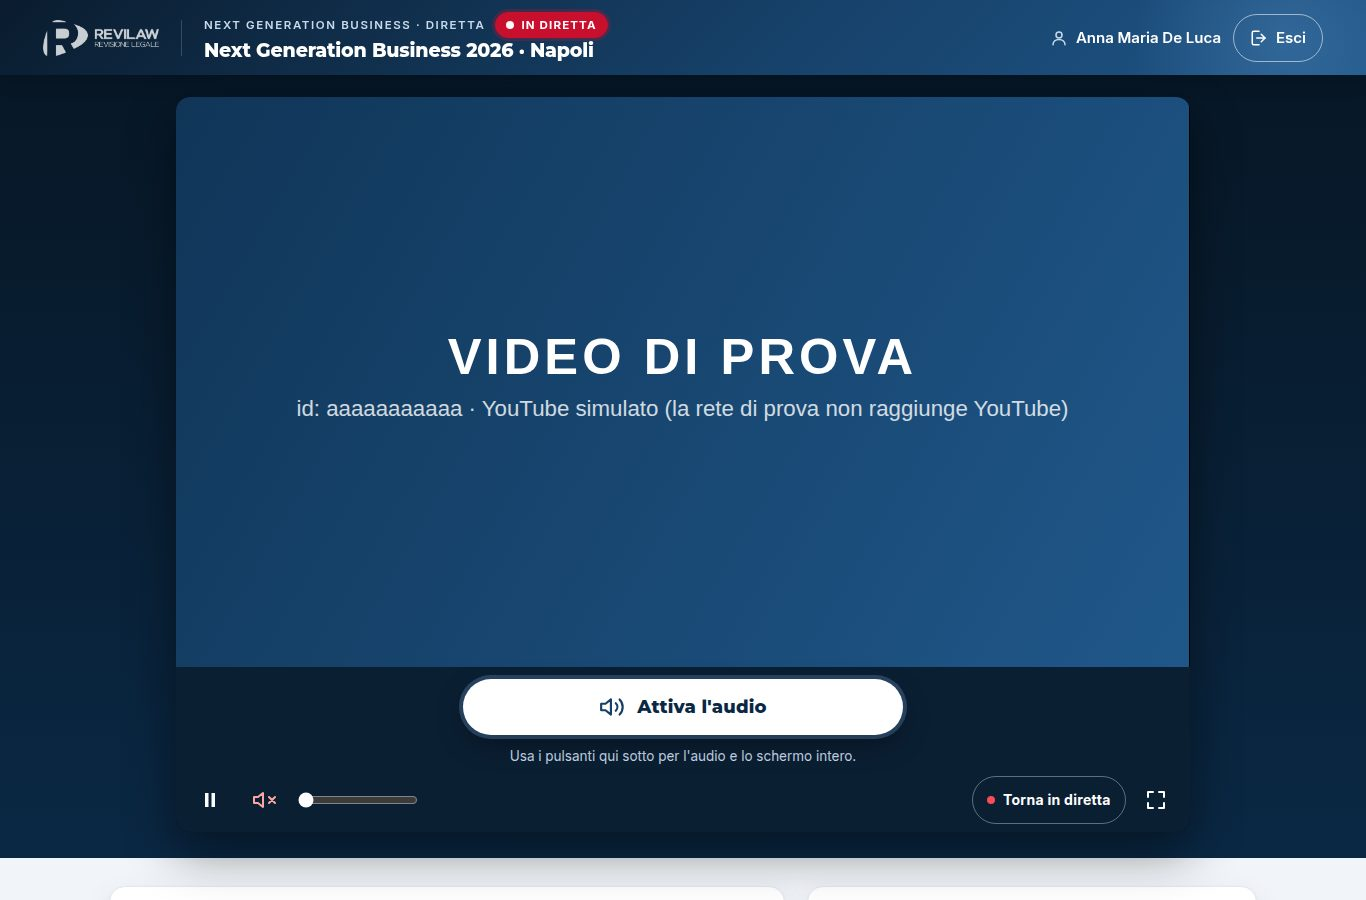
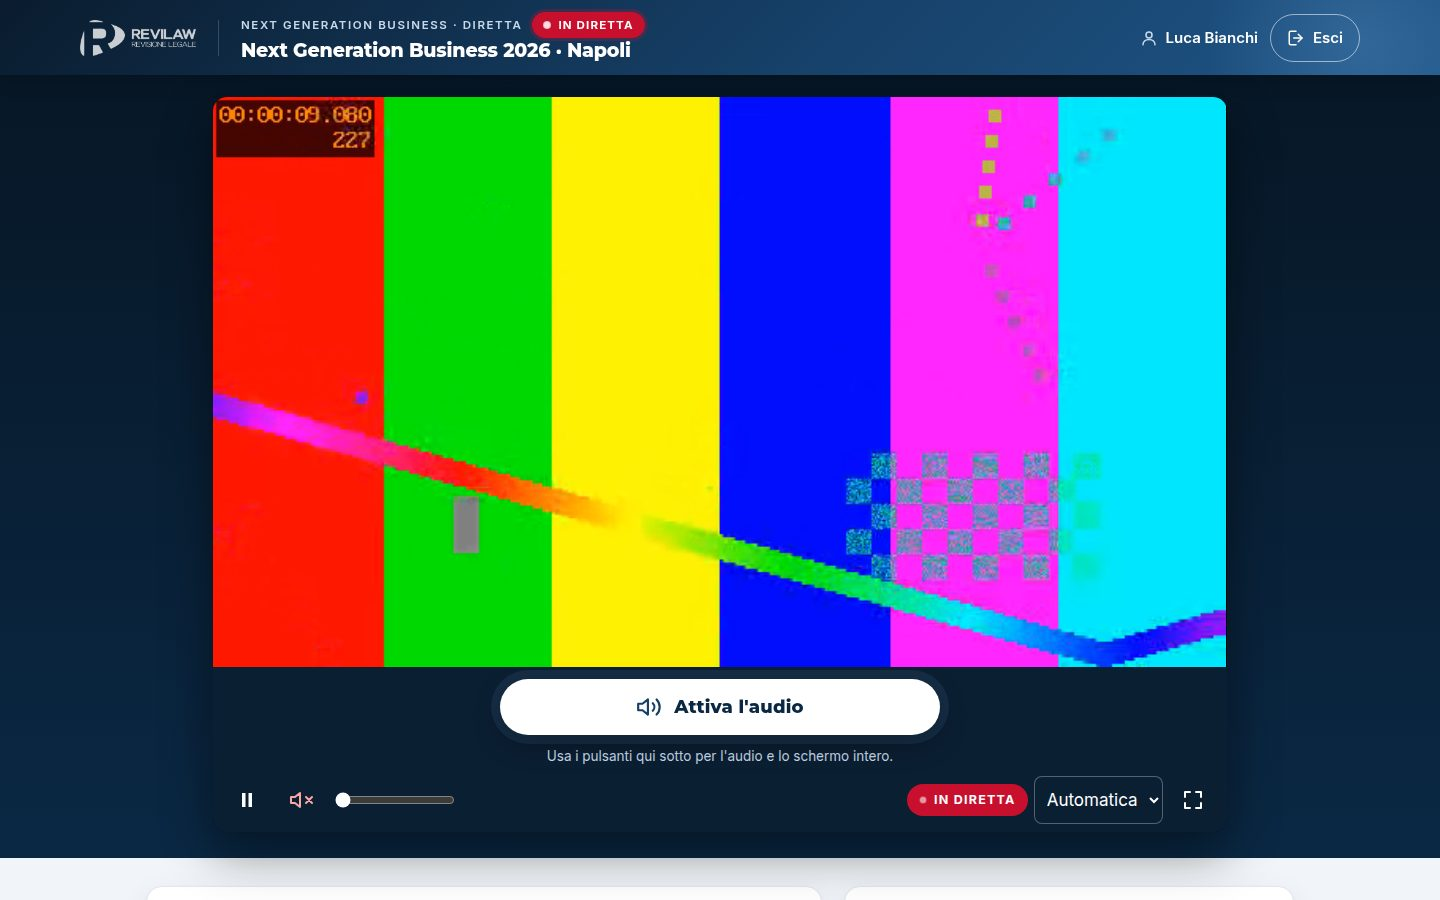
Diretta: prove della pagina e della web TV senza YouTube, screenshot nuovi
Pagina, e2e e web TV con la diretta di prova (ffmpeg) e il flusso
pubblico di Shaka: avvio muto e audio, qualita', schermo intero,
«Torna in diretta» e DVR, scorciatoie, cambio del link senza
ricaricare, caduta con passaggio alla riserva, diretta che non
risponde, ripiego incorporato, link non valido, link firmati.
Screenshot di diretta, ricollegamento, DVR e avviso del ripiego.

Claude-Session: https://claude.ai/code/session_01Vh8hVaybXHL1X15eBRcjKg

diff --git a/diretta/prove/pagina.prova.js b/diretta/prove/pagina.prova.js
@@ -40,8 +40,8 @@
    (Automatica, 360p, 180p: cambia davvero le righe del video); il
    grande «Attiva l'audio»; play/pausa (in pausa il video e' nascosto e
    al suo posto c'e' la nostra schermata, con «Torna in diretta»);
-   tasti spazio, F, M e frecce; schermo intero (anche finto, su
-   iPhone); «Torna in diretta» dopo la pausa riporta al punto live;
+   tasti spazio, F, M e frecce con il fuoco sul lettore (dopo un clic
+   sul video); schermo intero (anche finto, su iPhone); «Torna in diretta» dopo la pausa riporta al punto live;
    cambio del link durante la diretta senza ricaricare (stesso <video>,
    nessun ascolto Firestore in piu'); un link non valido («Video non
    disponibile», chiaro, e la pagina non si rompe); connessione persa e
@@ -794,8 +794,10 @@ function eventoIniziale(T) {
             await videoVa(p, 10000, 'il video dopo «Riprendi»');
         });
 
-        await prova('tastiera: spazio pausa/play, M muto, frecce volume', async () => {
-            await p.evaluate(() => { if (document.activeElement) document.activeElement.blur(); });
+        await prova('tastiera, con il fuoco sul lettore (dopo un clic sul video): spazio pausa/play, M muto, frecce volume', async () => {
+            // un clic sul video porta il fuoco sul riquadro del lettore: da li' valgono le scorciatoie
+            await p.click('#area-video');
+            vero(await p.evaluate(() => document.activeElement === document.getElementById('riquadro-video')), 'dopo il clic sul video il fuoco non e\' sul lettore');
             await p.keyboard.press('Space');
             await p.waitForSelector('#schermo-pausa', { state: 'visible' });
             vero((await statoVideo(p)).fermo, 'spazio: il video non si ferma');
@@ -816,6 +818,7 @@ function eventoIniziale(T) {
         });
 
         await prova('schermo intero sul nostro riquadro (tasto F e pulsante)', async () => {
+            await p.focus('#riquadro-video');
             await p.keyboard.press('f');
             await p.waitForSelector('#riquadro-video[data-intero="1"]');
             const dim = await p.locator('#riquadro-video').boundingBox();
@@ -835,7 +838,7 @@ function eventoIniziale(T) {
             await p.waitForSelector('#avviso-evento', { state: 'visible', timeout: 10000 });
             await p.waitForFunction(() => /Avviso: Problema tecnico/.test(document.getElementById('annuncio').textContent), null, { timeout: 5000 });
             vero(!(await visibile(p, '#avviso-intero')), 'la copia nel riquadro si vede anche fuori dallo schermo intero');
-            await p.evaluate(() => { if (document.activeElement) document.activeElement.blur(); });
+            await p.focus('#riquadro-video');
             await p.keyboard.press('f');
             await p.waitForSelector('#riquadro-video[data-intero="1"]');
             await p.waitForSelector('#avviso-intero', { state: 'visible', timeout: 5000 });
@@ -907,6 +910,8 @@ function eventoIniziale(T) {
             vero(/Video non disponibile/.test(await p.textContent('#schermo-video-titolo')), 'titolo: ' + await p.textContent('#schermo-video-titolo'));
             vero(/non è valido/.test(await p.textContent('#schermo-video-testo')), 'testo: ' + await p.textContent('#schermo-video-testo'));
             vero(await visibilitaVideo(p) !== 'visible', 'il video in errore resta visibile');
+            // il video di prima (con l'audio attivo) non continua di nascosto
+            vero((await statoVideo(p)).fermo, 'il video di prima continua a suonare sotto «Video non disponibile»');
             vero(!(await visibile(p, '#btn-attiva-audio')) && await p.isDisabled('#btn-play'), '«Attiva l\'audio» o il play con il video non disponibile');
             await foto(p, 'errore-video-computer');
             await evento.update({ videoId: 'aaaaaaaaaaa', videoAggiornato: T.now() });

diff --git a/diretta/prove/webtv.prova.js b/diretta/prove/webtv.prova.js
@@ -458,6 +458,13 @@ function contaAscolti(page) {
             vero(/collegamento al video .* non è valido/.test(t) && !/browser/i.test(t), 'testo poco chiaro: ' + t);
             vero(!(await visibile(p, '#btn-attiva-audio')), '«Attiva l\'audio» con il video non disponibile');
             vero(await p.getAttribute('body', 'data-vista') === 'diretta', 'vista: ' + await p.getAttribute('body', 'data-vista'));
+            // quello che c'era prima (qui il player incorporato) non resta acceso di nascosto
+            const resto = await p.evaluate(() => ({
+                iframe: !!document.querySelector('#video-player iframe'),
+                va: Array.from(document.querySelectorAll('#video-player video')).some(v => !v.paused)
+            }));
+            vero(!resto.iframe && !resto.va, 'il video di prima resta acceso sotto «Video non disponibile» (se ne sentirebbe l\'audio): ' + JSON.stringify(resto));
+            vero(await p.getAttribute('#riquadro-video', 'data-comandi') === 'pieni', 'restano i comandi ridotti del player incorporato di prima');
             await foto(p, 'non-disponibile-computer');
             await cambiaVideo(LIVE, RISERVA);
             await videoVa(p, 25000, 'il video di nuovo');

diff --git a/diretta/prove/esegui-tutte.js b/diretta/prove/esegui-tutte.js
@@ -2,7 +2,7 @@
    PROVE - tutte, una dopo l'altra
    ------------------------------------------------------------
        cd diretta/prove && npm install      (una volta)
-       node esegui-tutte.js                 (circa 15 minuti)
+       node esegui-tutte.js                 (circa 45 minuti)
        node esegui-tutte.js --carico        (anche il carico: +8 minuti)
        node esegui-tutte.js --solo regole,e2e
 
